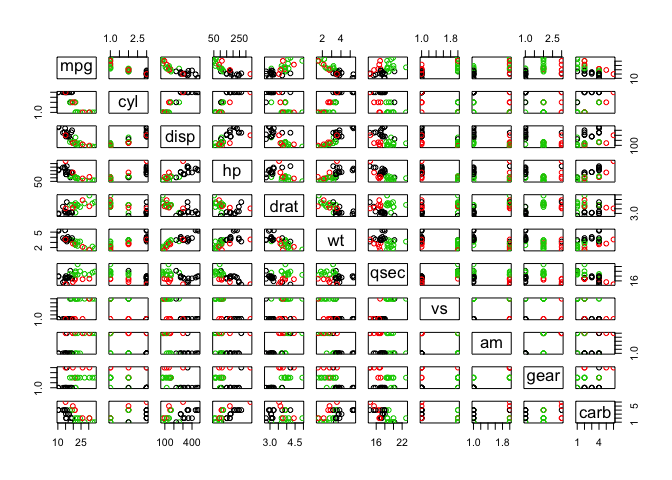
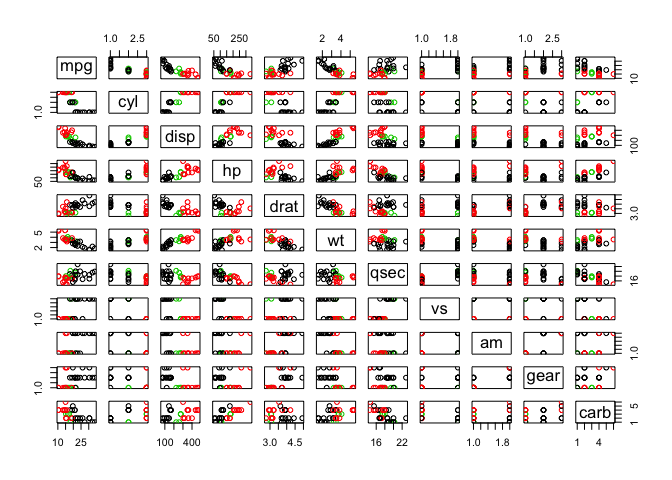
fixed readme clusters vec

diff --git a/README.md b/README.md
@@ -28,28 +28,27 @@ a tie for the most frequent value, the first one is taken.
     km <- kmodes_gower(mtcars, 3)
 
     ## Iter   % Changed Cluster
-    ##   1              34.38
-    ##   2              28.12
-    ##   3              15.62
-    ##   4               3.12
-    ##   5               9.38
-    ##   6               9.38
-    ##   7               0.00
+    ##   1              37.50
+    ##   2              18.75
+    ##   3               6.25
+    ##   4               6.25
+    ##   5               3.12
+    ##   6               0.00
 
     show(km)
 
-    ## K-modes clustering with 3 clusters of sizes 14, 6, 12
+    ## K-modes clustering with 3 clusters of sizes 16, 11, 5
     ## 
     ## Cluster modes:
-    ##     mpg cyl   disp    hp  drat     wt  qsec vs am gear carb
-    ## 1 15.35   8 350.50 180.0 3.075 3.7550 17.35  0  0    3    4
-    ## 2 21.00   6 152.50 111.5 3.835 2.6950 16.58  0  1    5    2
-    ## 3 22.80   4 120.55  94.0 3.920 2.6225 19.17  1  0    4    1
+    ##    mpg cyl   disp  hp drat     wt   qsec vs am gear carb
+    ## 1 22.8   4 120.65  96 3.92 2.5425 18.605  1  1    4    2
+    ## 2 15.0   8 360.00 215 3.15 3.5700 17.020  0  0    3    4
+    ## 3 17.3   8 275.80 180 3.07 3.7300 18.000  0  0    3    3
     ## 
     ## Within cluster sum of distances by cluster
-    ## [1] 2.627523 1.683822 3.056213
+    ## [1] 4.484579 2.259044 1.325879
     ## 
-    ##  within_dist / total_dist = 65.9 %)
+    ##  within_dist / total_dist = 72.2 %)
 
     plot(mtcars, col=km$clusters)
 
@@ -70,8 +69,8 @@ the rows of the distance matrix should sum to one.
     table(cluster)
 
     ## cluster
-    ##  1  2 
-    ## 24  8
+    ##  1  2  3 
+    ## 21  8  3
 
     d1 <- predict(km, mtcars, type="distance", normalize=FALSE)
     d2 <- predict(km, mtcars, type="distance", normalize=TRUE)
@@ -79,19 +78,19 @@ the rows of the distance matrix should sum to one.
     head(d1)
 
     ##           [,1]      [,2]      [,3]
-    ## [1,] 0.4308455 0.1897659 0.4149101
-    ## [2,] 0.4188575 0.1956697 0.4146606
-    ## [3,] 0.6457625 0.4179481 0.1101008
-    ## [4,] 0.3749739 0.4642582 0.2754273
-    ## [5,] 0.1216643 0.3998524 0.5343441
-    ## [6,] 0.3870310 0.4955948 0.3066464
+    ## [1,] 0.3189645 0.4345832 0.5039349
+    ## [2,] 0.3188312 0.4225952 0.4919469
+    ## [3,] 0.1028999 0.6566431 0.6138735
+    ## [4,] 0.4645546 0.3917196 0.3430850
+    ## [5,] 0.5294238 0.1210936 0.1377230
+    ## [6,] 0.4957737 0.4041956 0.3547231
 
     head(d2)
 
-    ##           [,1]      [,2]       [,3]
-    ## [1,] 0.4160662 0.1832563 0.40067748
-    ## [2,] 0.4069787 0.1901205 0.40290081
-    ## [3,] 0.5501416 0.3560607 0.09379769
-    ## [4,] 0.3364022 0.4165023 0.24709549
-    ## [5,] 0.1152276 0.3786980 0.50607434
-    ## [6,] 0.3254352 0.4167211 0.25784372
+    ##            [,1]      [,2]      [,3]
+    ## [1,] 0.25365323 0.3455978 0.4007490
+    ## [2,] 0.25850342 0.3426337 0.3988629
+    ## [3,] 0.07492257 0.4781092 0.4469682
+    ## [4,] 0.38733570 0.3266074 0.2860569
+    ## [5,] 0.67165278 0.1536252 0.1747220
+    ## [6,] 0.39513564 0.3221472 0.2827172
